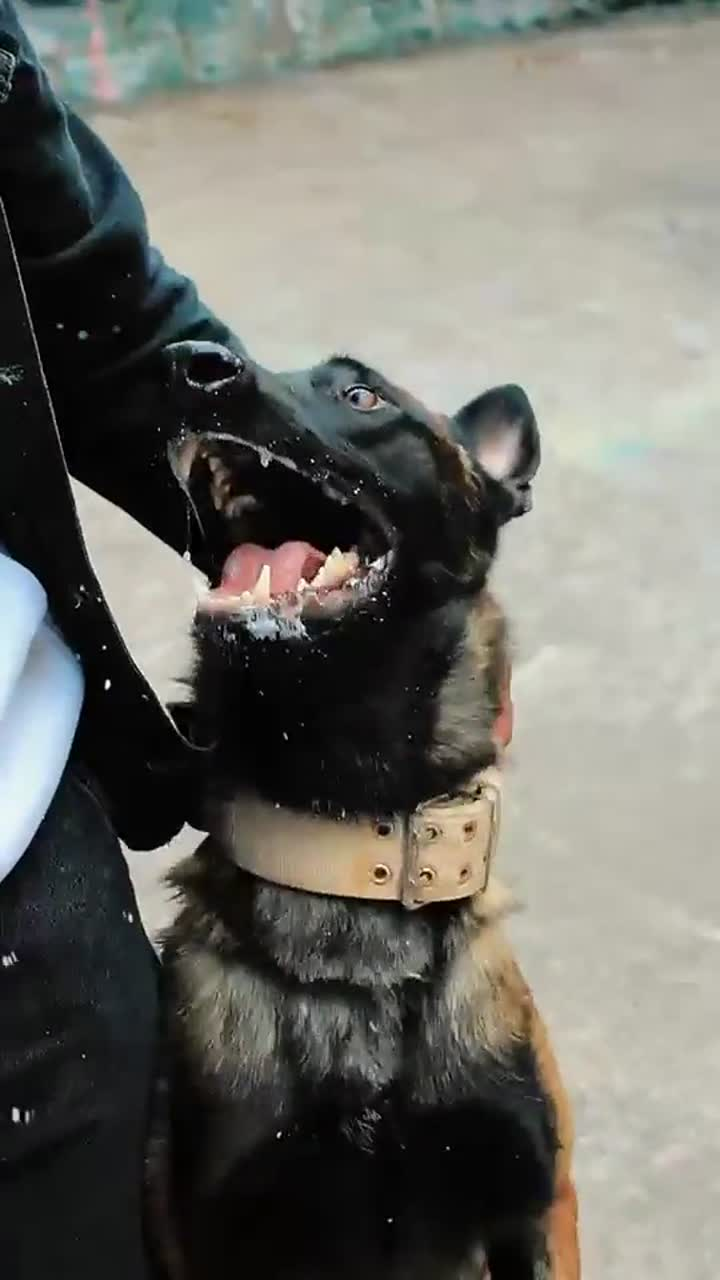
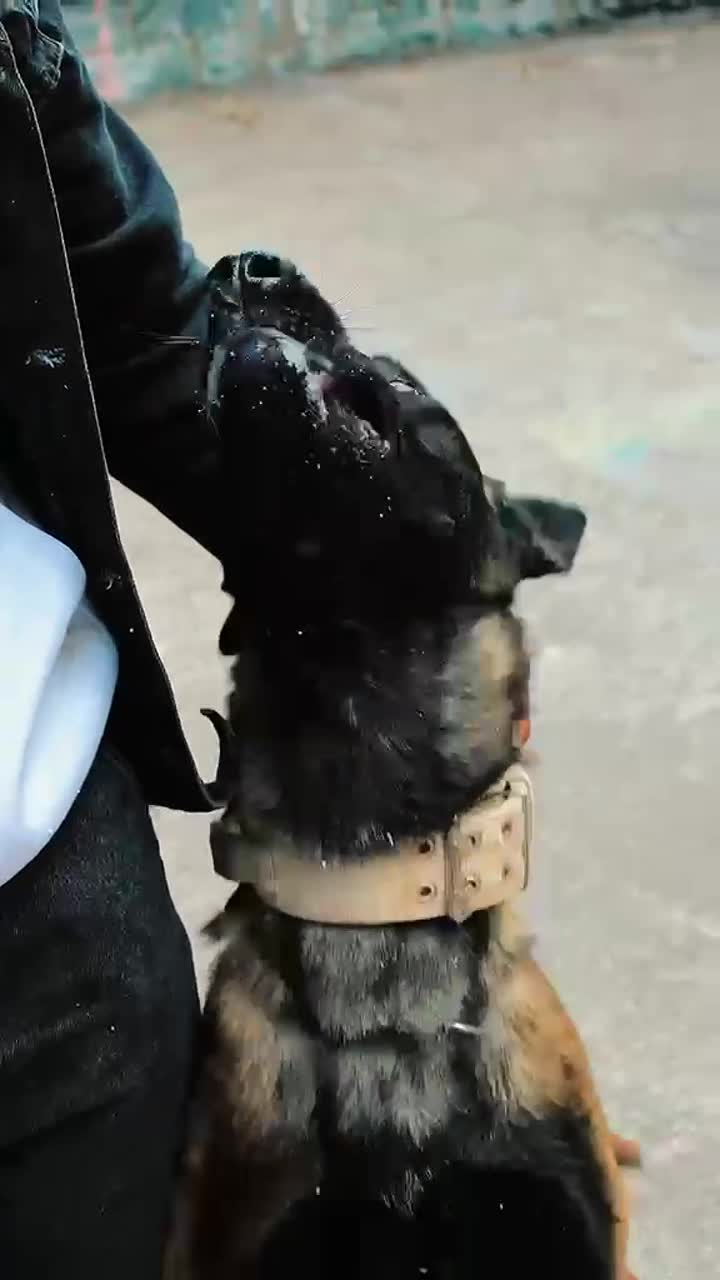
Hero 2-11s em maxima qualidade (CRF18), enquadramento que segue o cao (pan sincronizado com o video), poster com foco no cao

diff --git a/main.js b/main.js
@@ -316,6 +316,35 @@
     });
   }
 
+  function heroVideoPan() {
+    var v = document.querySelector(".hero-video");
+    if (!v) return;
+    // segue o cão conforme o vídeo avança (mais preciso que animação CSS)
+    // pontos: [tempo do clipe (0-1), posição Y]
+    var keys = [[0, 18], [0.55, 30], [0.80, 50], [1, 54]];
+    function posAt(t) {
+      for (var i = 1; i < keys.length; i++) {
+        if (t <= keys[i][0]) {
+          var a = keys[i - 1], b = keys[i];
+          var r = (t - a[0]) / (b[0] - a[0] || 1);
+          return a[1] + (b[1] - a[1]) * r;
+        }
+      }
+      return keys[keys.length - 1][1];
+    }
+    function tick() {
+      if (v.duration && !v.paused) {
+        var t = (v.currentTime % v.duration) / v.duration;
+        v.style.objectPosition = "61% " + posAt(t).toFixed(1) + "%";
+      }
+      requestAnimationFrame(tick);
+    }
+    v.addEventListener("playing", function () {
+      v.style.animation = "none"; // desliga o fallback CSS quando o vídeo roda
+    });
+    requestAnimationFrame(tick);
+  }
+
   function splash() {
     var sp = $("#js-splash");
     if (!sp) return;
@@ -400,6 +429,7 @@
     safe(wireWAButtons, "wa-buttons");
     safe(wireForm, "form");
     safe(splash, "splash");
+    safe(heroVideoPan, "hero-pan");
     safe(nav, "nav");
     safe(cursor, "cursor");
     safe(year, "year");

diff --git a/styles.css b/styles.css
@@ -135,8 +135,19 @@ body::after{
 }
 .hero-video{
   position:absolute;inset:0;z-index:0;width:100%;height:100%;
-  object-fit:cover;object-position:70% 30%;
-  filter:saturate(.55) contrast(1.12) brightness(.92);
+  object-fit:cover;object-position:60% 22%;
+  filter:saturate(.55) contrast(1.12) brightness(.95);
+  animation:heroPan 9s linear infinite;
+}
+/* segue o cão: começa no alto (cão erguido) e desce quando ele abaixa */
+@keyframes heroPan{
+  0%   {object-position:60% 18%;}
+  55%  {object-position:60% 30%;}
+  80%  {object-position:62% 50%;}
+  100% {object-position:62% 54%;}
+}
+@media(prefers-reduced-motion:reduce){
+  .hero-video{animation:none;object-position:60% 30%;}
 }
 .hero-overlay{
   display:block;position:absolute;inset:0;z-index:1;pointer-events:none;

diff --git a/index.html b/index.html
@@ -9,7 +9,7 @@
 <meta property="og:title" content="K9 Training - Disciplina · Respeito · Foco · Resultados">
 <meta property="og:description" content="Adestramento canino profissional. Agende sua avaliação pelo WhatsApp.">
 <meta property="og:type" content="website">
-<link rel="stylesheet" href="styles.css?v=20260629-2">
+<link rel="stylesheet" href="styles.css?v=20260629-3">
 </head>
 <body>
 
@@ -156,8 +156,8 @@
   <span class="lbl">Agendar avaliação</span>
 </a>
 
-<script src="lib/manifest.js?v=20260629-2"></script>
-<script src="main.js?v=20260629-2"></script>
+<script src="lib/manifest.js?v=20260629-3"></script>
+<script src="main.js?v=20260629-3"></script>
 </body>
 </html>
 